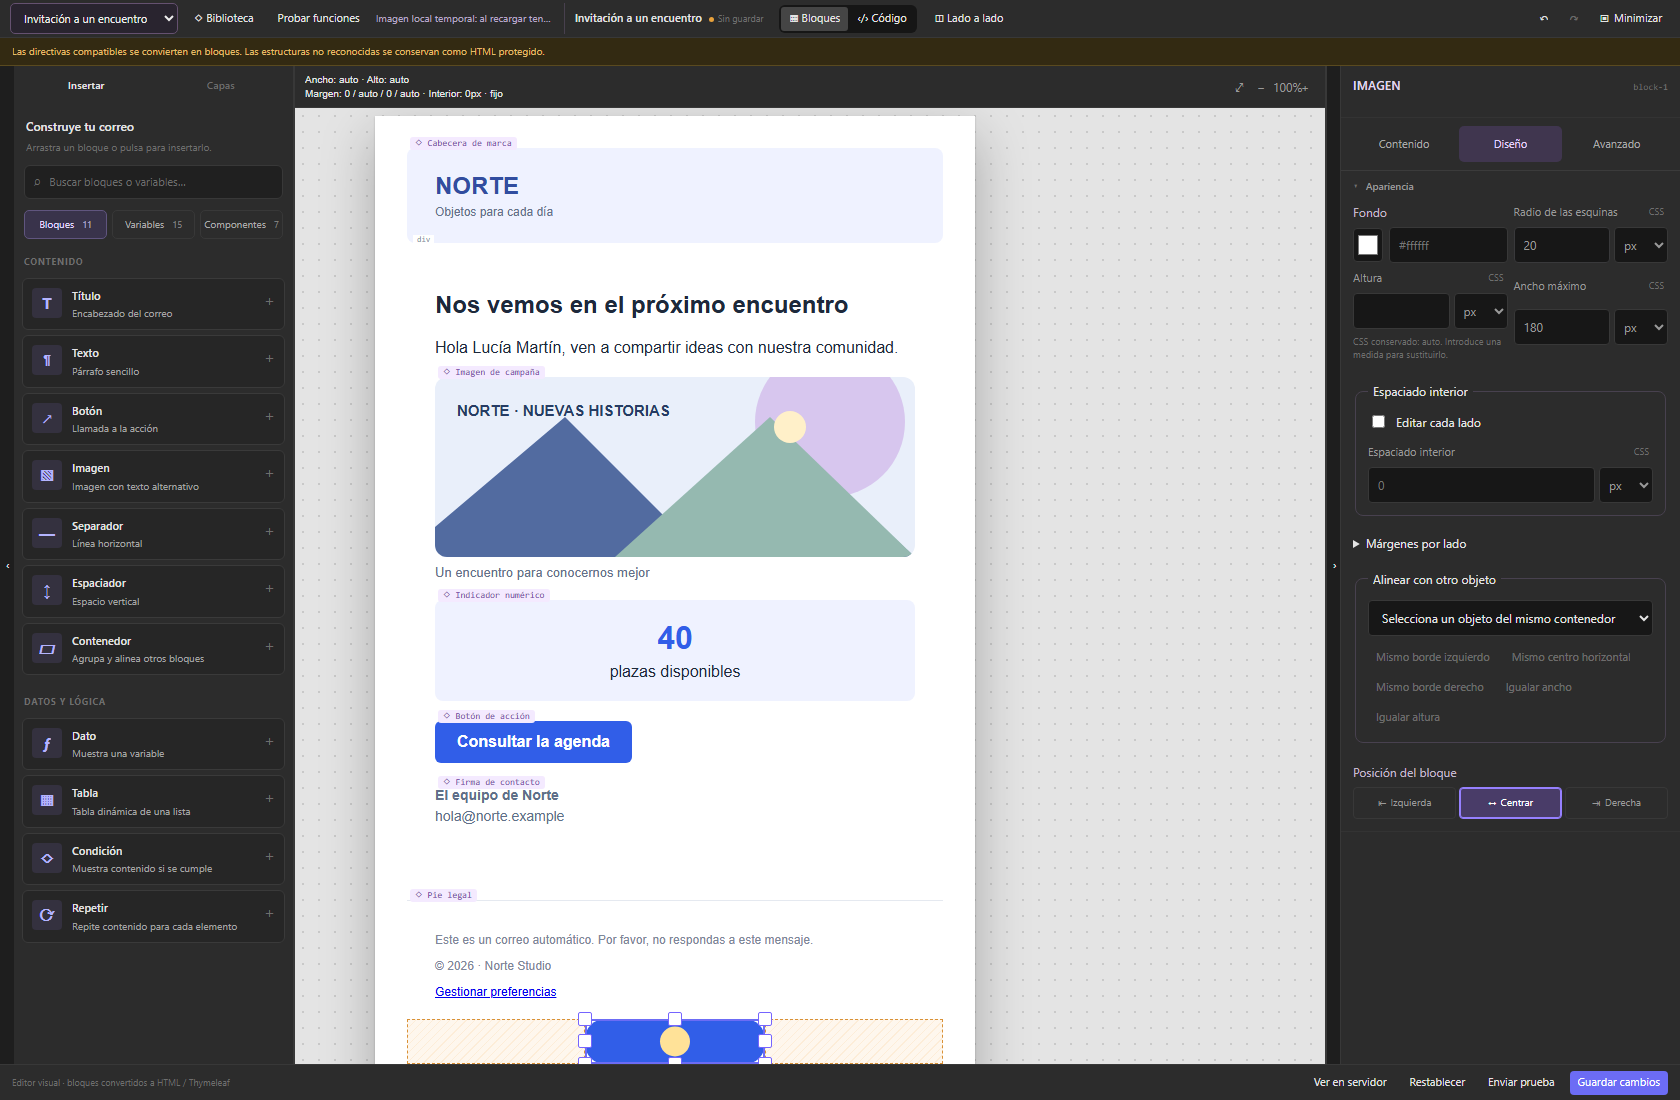
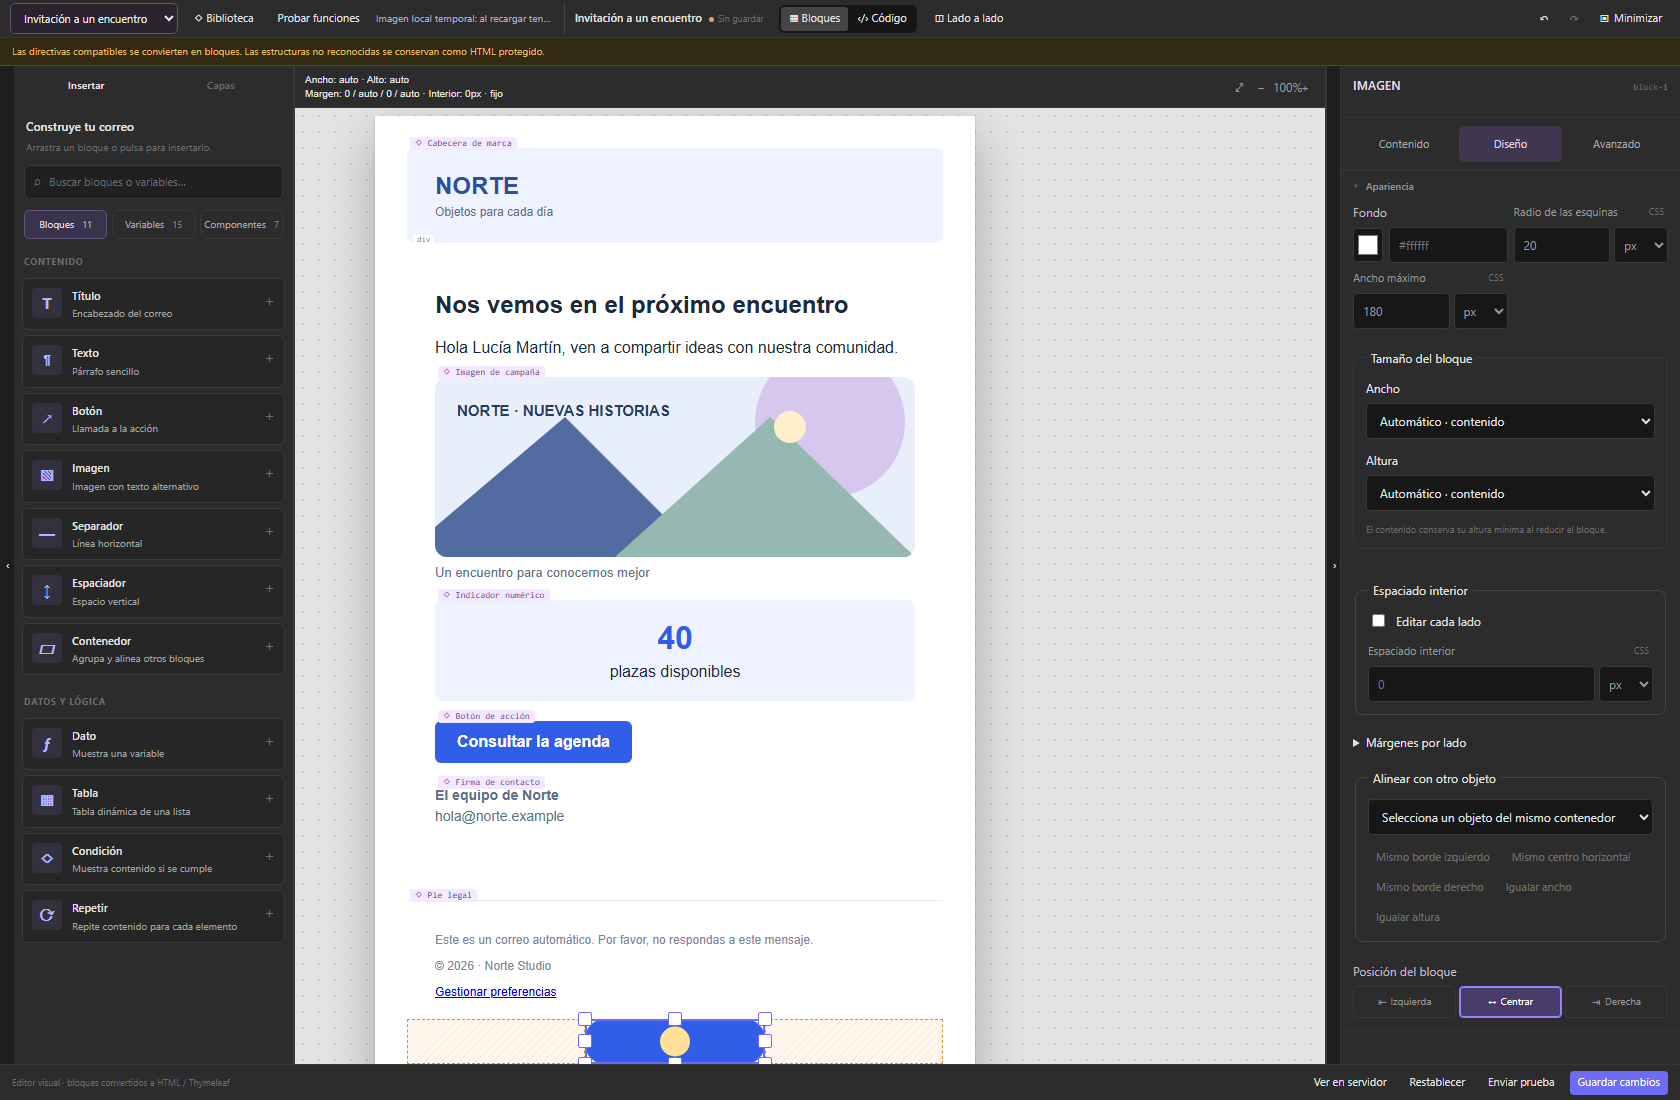
refactor(layout): unify frame sizing and component content rules

diff --git a/src/services/emailComponents.ts b/src/services/emailComponents.ts
@@ -1,3 +1,4 @@
+import { componentContent, componentLayout } from "./componentLayout";
 import { normalizeTemplateMarkup } from "./templateMarkup";
 import { templateExpression } from "./valueSyntax";
 export type ComponentProperty = {key:string;label:string;type:"text"|"url"|"color"|"boolean"|"number"|"email"|"image"|"date"|"datetime";defaultValue:string};
@@ -6,41 +7,8 @@ export type EmailComponent = {key:string;name:string;description:string;category
 export type ComponentInstance = {componentKey:string;name:string;values:Record<string,ComponentValue>;fallbackHtml:string;properties:ComponentProperty[];styles?:Record<string,string>};
 const escape=(value:string)=>value.replace(/[&<>"']/g,c=>({"&":"&amp;","<":"&lt;",">":"&gt;",'"':"&quot;","'":"&#39;"}[c]!));
 const quote=(value:string)=>`'${value.replace(/\\/g,"\\\\").replace(/'/g,"\\'")}'`;
-/** Resize a single visual root while keeping its authored fallback recoverable. */
-function componentContent(source: string, styles: Record<string,string> = {}): string {
-  if (typeof DOMParser === "undefined") return source;
-  const doc = new DOMParser().parseFromString(normalizeTemplateMarkup(source), "text/html");
-  const root = doc.body.firstElementChild as HTMLElement | null;
-  if (!root || doc.body.children.length !== 1 || !["DIV","SECTION","HEADER","FOOTER","ARTICLE","ASIDE","FIGURE"].includes(root.tagName)) return source;
-  const original = root.getAttribute("data-ee-fit-original-style");
-  if (original !== null) { root.setAttribute("style", original); root.removeAttribute("data-ee-fit-original-style"); }
-  const height = styles.height && styles.height !== "auto";
-  const width = styles.width && styles.width !== "auto";
-  if (height || width) {
-    root.setAttribute("data-ee-fit-original-style",root.getAttribute("style") || "");
-    root.style.boxSizing = "border-box";
-    if (width) { root.style.width = "100%"; root.style.maxWidth = "100%"; }
-    if (height) {
-      root.style.height = "100%";
-      root.style.minHeight = "min-content";
-      root.style.flexShrink = "0";
-      if (styles.justifyContent && (!root.style.display || root.style.display === "block")) {
-        root.style.display = "flex";
-        root.style.flexDirection = "column";
-        root.style.justifyContent = styles.justifyContent;
-      }
-    }
-  }
-  return doc.body.innerHTML;
-}
-
 export function componentFrameStyles(instance: ComponentInstance, definition?: EmailComponent): Record<string,string> {
-  const styles = instance.styles || {};
-  if (!styles.height || styles.height === "auto" || typeof DOMParser === "undefined") return styles;
-  const doc = new DOMParser().parseFromString(normalizeTemplateMarkup(definition?.html || instance.fallbackHtml), "text/html");
-  const root = doc.body.firstElementChild;
-  if (doc.body.children.length !== 1 || !root || !["DIV","SECTION","HEADER","FOOTER","ARTICLE","ASIDE","FIGURE"].includes(root.tagName)) return styles;
-  return {...styles,display:"grid",gridTemplateColumns:"minmax(0, 1fr)",gridTemplateRows:"minmax(min-content, 1fr)",minHeight:styles.minHeight || "min-content"};
+  return componentLayout(definition?.html ?? instance.fallbackHtml,instance.styles);
 }
 
 export function componentHtml(instance:ComponentInstance,definition?:EmailComponent, presentationAttributes = ""):string {

diff --git a/src/services/componentLayout.ts b/src/services/componentLayout.ts
@@ -1,0 +1,45 @@
+import { normalizeTemplateMarkup } from "./templateMarkup";
+import { boxStyles, type BlockStyles } from "../editor/blockLayout";
+
+const visualRoots = new Set(["DIV","SECTION","HEADER","FOOTER","ARTICLE","ASIDE","FIGURE"]);
+function parseVisualRoot(source: string) {
+  if (typeof DOMParser === "undefined") return null;
+  const document = new DOMParser().parseFromString(normalizeTemplateMarkup(source),"text/html");
+  const root = document.body.firstElementChild as HTMLElement | null;
+  return root && document.body.children.length === 1 && visualRoots.has(root.tagName) ? {document,root} : null;
+}
+
+/** Authored styles survive the reversible presentation applied to a resized instance. */
+export function componentContent(source: string, styles: BlockStyles = {}): string {
+  const parsed = parseVisualRoot(source);
+  if (!parsed) return source;
+  const {document,root} = parsed;
+  const original = root.getAttribute("data-ee-fit-original-style");
+  if (original !== null) {
+    root.setAttribute("style",original);
+    root.removeAttribute("data-ee-fit-original-style");
+  }
+  const width = !!styles.width && styles.width !== "auto";
+  const height = !!styles.height && styles.height !== "auto";
+  if (width || height) {
+    root.setAttribute("data-ee-fit-original-style",root.getAttribute("style") || "");
+    root.style.boxSizing = "border-box";
+    root.style.minWidth = "0";
+    if (width) { root.style.width = "100%"; root.style.maxWidth = "100%"; }
+    if (height) {
+      root.style.height = "100%";
+      root.style.minHeight = "min-content";
+      root.style.flexShrink = "0";
+      if (styles.justifyContent && (!root.style.display || root.style.display === "block")) {
+        Object.assign(root.style,{display:"flex",flexDirection:"column",justifyContent:styles.justifyContent});
+      }
+    }
+  }
+  return document.body.innerHTML;
+}
+
+export function componentLayout(source: string, styles: BlockStyles = {}): BlockStyles {
+  const frame = boxStyles(styles);
+  if (!styles.height || styles.height === "auto" || !parseVisualRoot(source)) return frame;
+  return {...frame,display:"grid",gridTemplateColumns:"minmax(0, 1fr)",gridTemplateRows:"minmax(min-content, 1fr)",minHeight:styles.minHeight || "min-content"};
+}

diff --git a/src/components/editor/BlockInspector.tsx b/src/components/editor/BlockInspector.tsx
@@ -1,3 +1,4 @@
+import FrameSizing from "./FrameSizing";
 import SpacingInspector from "./SpacingInspector";
 import ImageInspector from "./ImageInspector";
 import ValueInput from "./ValueInput";
@@ -141,9 +142,10 @@ export default function BlockInspector({ style, block, multiCount, tokens, loopC
             {block.type !== "image" && <LengthInput label="Tamaño del texto" value={block.styles?.fontSize ?? ""} onChange={fontSize => patch({ styles: { ...block.styles, fontSize } })} placeholder="16px" />}
 
             <LengthInput label="Radio de las esquinas" value={block.styles?.borderRadius ?? ""} onChange={borderRadius => patch({ styles: { ...block.styles, borderRadius } })} placeholder="8px" />
-            <LengthInput label="Altura" value={block.styles?.height ?? ""} onChange={height => patch({ styles: { ...block.styles, height, boxSizing: "border-box" } })} placeholder="auto" />
+
             <LengthInput label="Ancho máximo" value={block.styles?.maxWidth ?? ""} onChange={maxWidth => patch({ styles: { ...block.styles, maxWidth } })} placeholder="600px" />
           </div>
+          <FrameSizing key={`size-${block.id}`} styles={block.type === "image" && block.width ? {width:`${block.width}px`,...block.styles} : block.styles || {}} onChange={styles=>patch(block.type === "image" ? {styles,width:styles.width ? block.width : ""} : {styles})} />
           <SpacingInspector key={block.id} block={block} onChange={styles=>patch({styles})} />
           <div className="ee-field"><span>{isPositionAligned ? "Posición del bloque" : "Alineación del texto"}</span>
             <div className="ee-alignment-control" role="group" aria-label={isPositionAligned ? "Posición del bloque" : "Alineación del texto"}>

diff --git a/src/components/editor/FrameSizing.tsx b/src/components/editor/FrameSizing.tsx
@@ -1,0 +1,15 @@
+import { changeSizeMode, sizeMode, type Axis, type BlockStyles, type SizeMode } from "../../editor/blockLayout";
+import { LengthInput } from "./StyleInputs";
+
+export default function FrameSizing({styles,onChange}:{styles:BlockStyles;onChange:(styles:BlockStyles)=>void}) {
+  return <fieldset className="ee-frame-sizing"><legend>Tamaño del bloque</legend>
+    {([['width','Ancho'],['height','Altura']] as const).map(([axis,label])=><div key={axis} className="ee-frame-axis">
+      <label><span>{label}</span><select className="ee-select" aria-label={`Modo de ${label.toLowerCase()}`} value={sizeMode(styles[axis])}
+        onChange={event=>onChange(changeSizeMode(styles,axis as Axis,event.target.value as SizeMode))}>
+        <option value="auto">Automático · contenido</option><option value="fixed">Fijo · px</option><option value="relative">Relativo</option><option value="css">CSS personalizado</option>
+      </select></label>
+      {sizeMode(styles[axis]) !== "auto" && <LengthInput key={`${axis}-${sizeMode(styles[axis])}`} label={label} value={styles[axis] || ""} onChange={value=>onChange({...styles,[axis]:value,boxSizing:"border-box"})} />}
+    </div>)}
+    <small>El contenido conserva su altura mínima al reducir el bloque.</small>
+  </fieldset>;
+}

diff --git a/src/services/emailBlocks.ts b/src/services/emailBlocks.ts
@@ -1,3 +1,4 @@
+import { boxStyles } from "../editor/blockLayout";
 import { normalizeTemplateMarkup } from "./templateMarkup";
 import type { EmailToken } from "./emailTemplateRenderer";
 import { tableRowGroups, columnExpression } from "./tableRows";
@@ -124,7 +125,7 @@ export function createEmailBlock(type: BlockKind, tokens: EmailToken[], id: stri
 
 function attributesFor(block: EmailBlock, extra: Record<string, string> = {}, editorMetadata = false) {
   const className = [block.className, extra.class].filter(Boolean).join(" ");
-  const styles = { ...(block.styles ?? {}) };
+  const styles = block.type === "container" || block.type === "if" ? boxStyles(block.styles) : { ...(block.styles ?? {}) };
   const styleText = Object.entries(styles)
     .filter(([property, value]) => /^(?:--[\w-]+|[a-zA-Z-]+)$/.test(property) && value && !/expression\s*\(|javascript:/i.test(value))
     .map(([property, value]) => `${property.replace(/[A-Z]/g, letter => `-${letter.toLowerCase()}`)}:${value}`)

diff --git a/src/editor/blockLayout.ts b/src/editor/blockLayout.ts
@@ -1,0 +1,22 @@
+export type Axis = "width" | "height";
+export type SizeMode = "auto" | "fixed" | "relative" | "css";
+export type BlockStyles = Record<string,string>;
+
+export function sizeMode(value: string | undefined): SizeMode {
+  if (!value || value === "auto") return "auto";
+  if (/^[\d.]+px$/.test(value)) return "fixed";
+  if (/^[\d.]+(?:%|em|rem|vw|vh)$/.test(value)) return "relative";
+  return "css";
+}
+
+export function changeSizeMode(styles: BlockStyles, axis: Axis, mode: SizeMode): BlockStyles {
+  const next: BlockStyles = {...styles,boxSizing:"border-box"};
+  if (mode === "auto") { delete next[axis]; return next; }
+  if (mode === "relative") return {...next,[axis]:"100%"};
+  if (mode === "fixed") return {...next,[axis]:axis === "width" ? "300px" : "160px"};
+  return {...next,[axis]:"fit-content"};
+}
+
+export function boxStyles(styles: BlockStyles = {}): BlockStyles {
+  return {boxSizing:"border-box",minWidth:"0",...styles};
+}

diff --git a/src/components/editor/BlockRenderer.tsx b/src/components/editor/BlockRenderer.tsx
@@ -1,3 +1,4 @@
+import { boxStyles } from "../../editor/blockLayout";
 import { tableSampleRows, resolveCellTemplate } from "../../services/tableRows";
 import { componentFrameStyles, componentHtml, expandComponents, type EmailComponent } from "../../services/emailComponents";
 import { buildSampleContext, renderThymeleaf } from "../../services/emailTemplateRenderer";
@@ -105,7 +106,7 @@ function inlineNodeDisplay(node: InlineNode, tokens: ReturnType<typeof useCanvas
 }
 
 function blockStyle(block: EmailBlock): React.CSSProperties {
-  return (block.styles ?? {}) as React.CSSProperties;
+  return (block.type === "container" || block.type === "if" ? boxStyles(block.styles) : block.styles || {}) as React.CSSProperties;
 }
 
 export default function BlockRenderer({ blocks, locals = {}, loopId }: Props) {

diff --git a/src/components/email-editor/email-editor.css b/src/components/email-editor/email-editor.css
@@ -576,3 +576,8 @@
 .ee-preview-selection { position:absolute; box-sizing:border-box; border:2px solid #7564ff; pointer-events:none; z-index:1; }
 .ee-preview-diagnostics { flex:none; max-height:110px; overflow:auto; }
 .ee-code-loading { display:grid; place-items:center; min-height:0; flex:1; background:#111827; color:#aab7c8; font-size:12px; }
+.ee-frame-sizing { display:grid; gap:12px; border:1px solid var(--panel-border,#48414f); border-radius:8px; padding:12px; margin:12px 0; min-width:0; }
+.ee-frame-sizing legend { padding:0 5px; font-size:12px; }
+.ee-frame-axis { display:grid; gap:8px; }
+.ee-frame-axis>label { display:grid; gap:6px; font-size:12px; }
+.ee-frame-sizing small { color:var(--text-faint); line-height:1.5; }

diff --git a/src/editor/blockLayout.test.ts b/src/editor/blockLayout.test.ts
@@ -1,0 +1,10 @@
+import {it,expect} from "vitest";
+import {changeSizeMode,sizeMode} from "./blockLayout";
+it("switches sizing modes without losing the other axis or padding",()=>{
+ const initial={height:"90px",padding:"12px",width:"40%"};
+ expect(sizeMode(initial.width)).toBe("relative");
+ const auto=changeSizeMode(initial,"width","auto");
+ expect(auto.width).toBeUndefined();expect(auto.height).toBe("90px");expect(auto.padding).toBe("12px");
+ expect(changeSizeMode(auto,"width","fixed").width).toBe("300px");
+ expect(changeSizeMode(auto,"width","relative").width).toBe("100%");
+});
